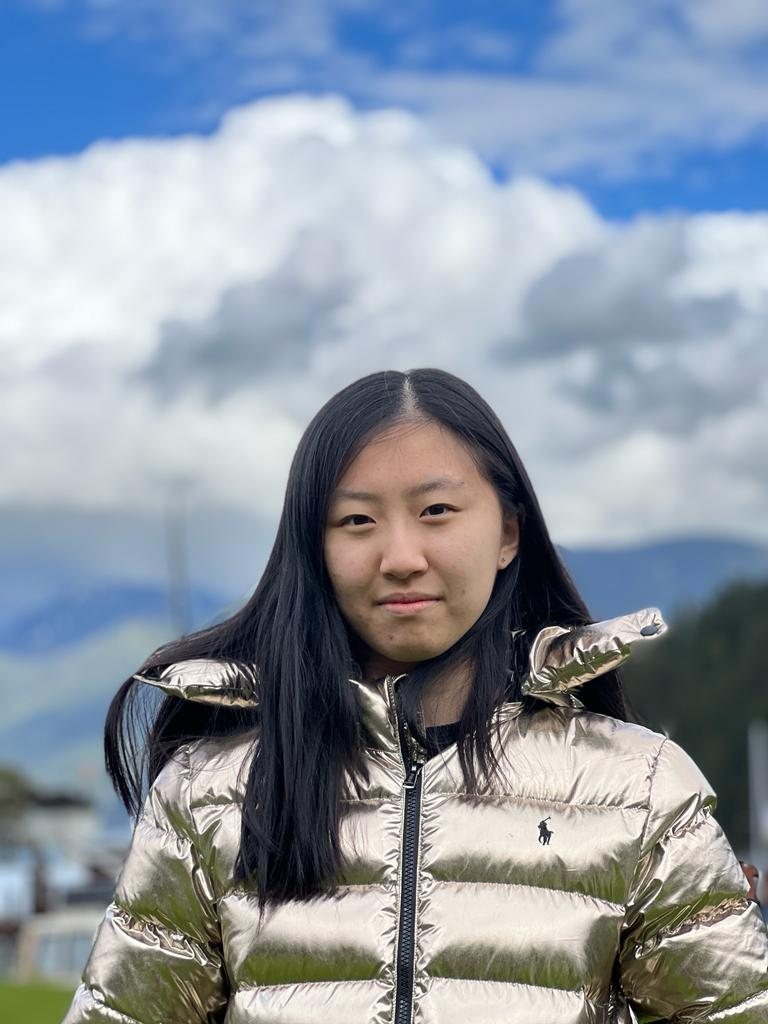
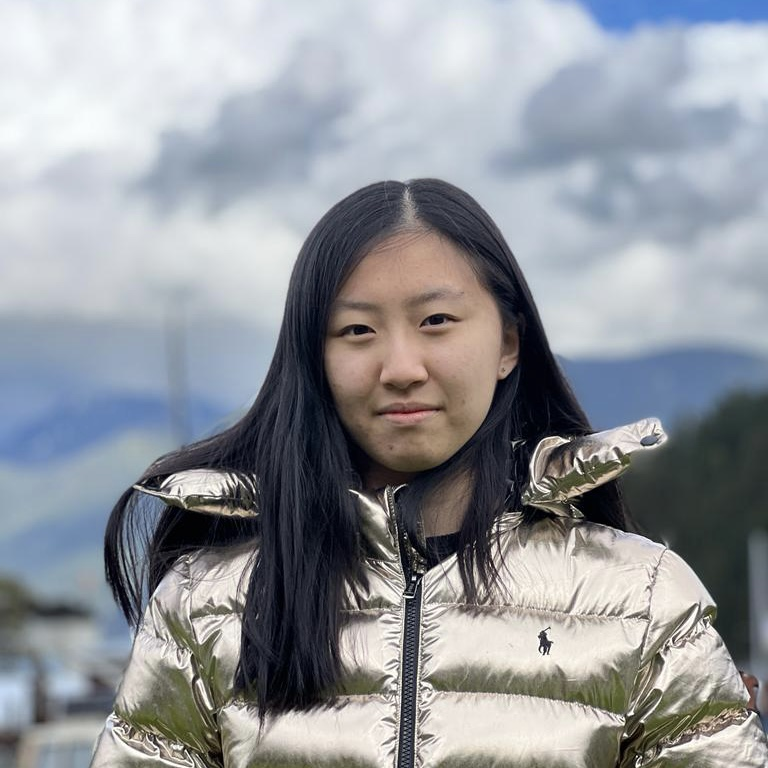
Updated Member Pictures

diff --git a/pages/humans.js b/pages/humans.js
@@ -18,7 +18,7 @@ export default function Humans() {
             "We get to talk to the celebrities (the speakers) and get them to campus/zoom.",
         Sponsorship: "Making money moves. Need I say more?",
         Marketing: "Spreading innovation throughout the community.",
-        Treasury: "Treasury",
+        Treasury: "Making the dollars make cents.",
     };
 
     return (
